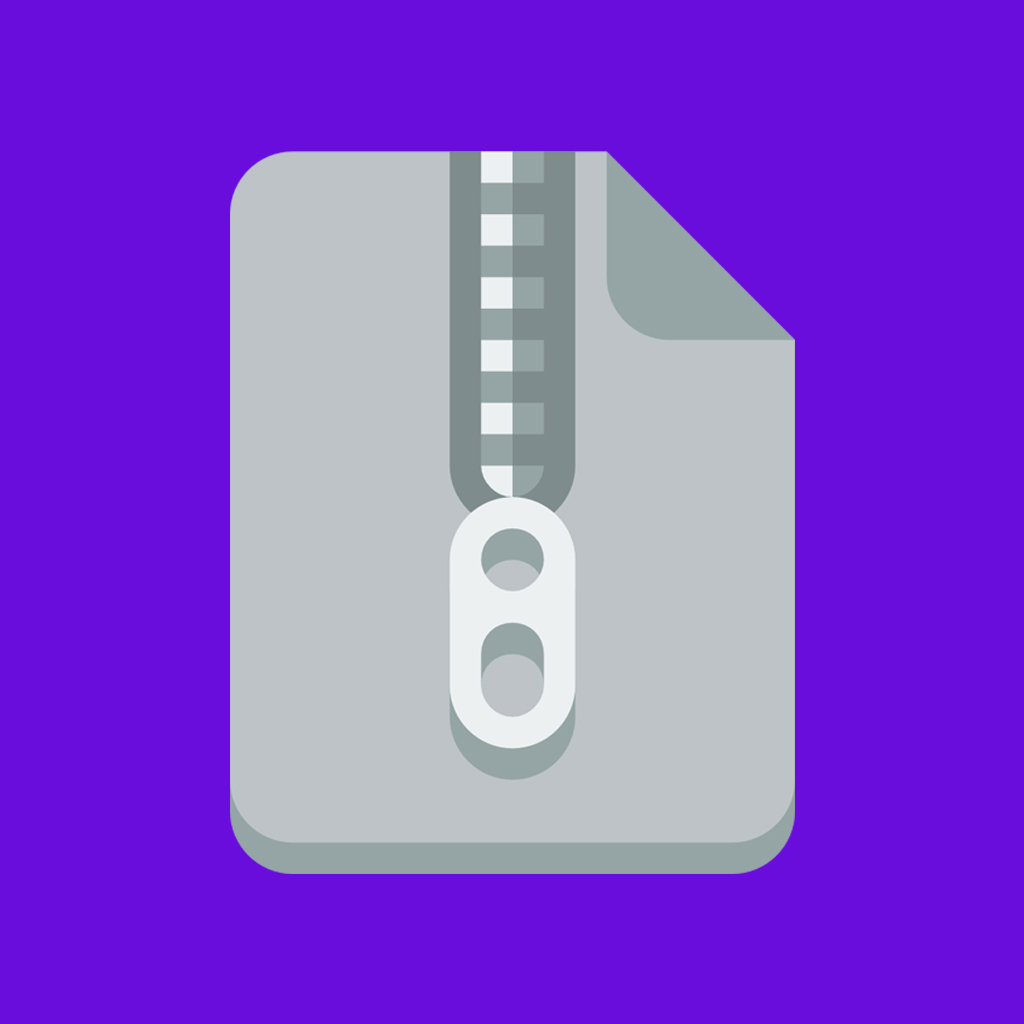
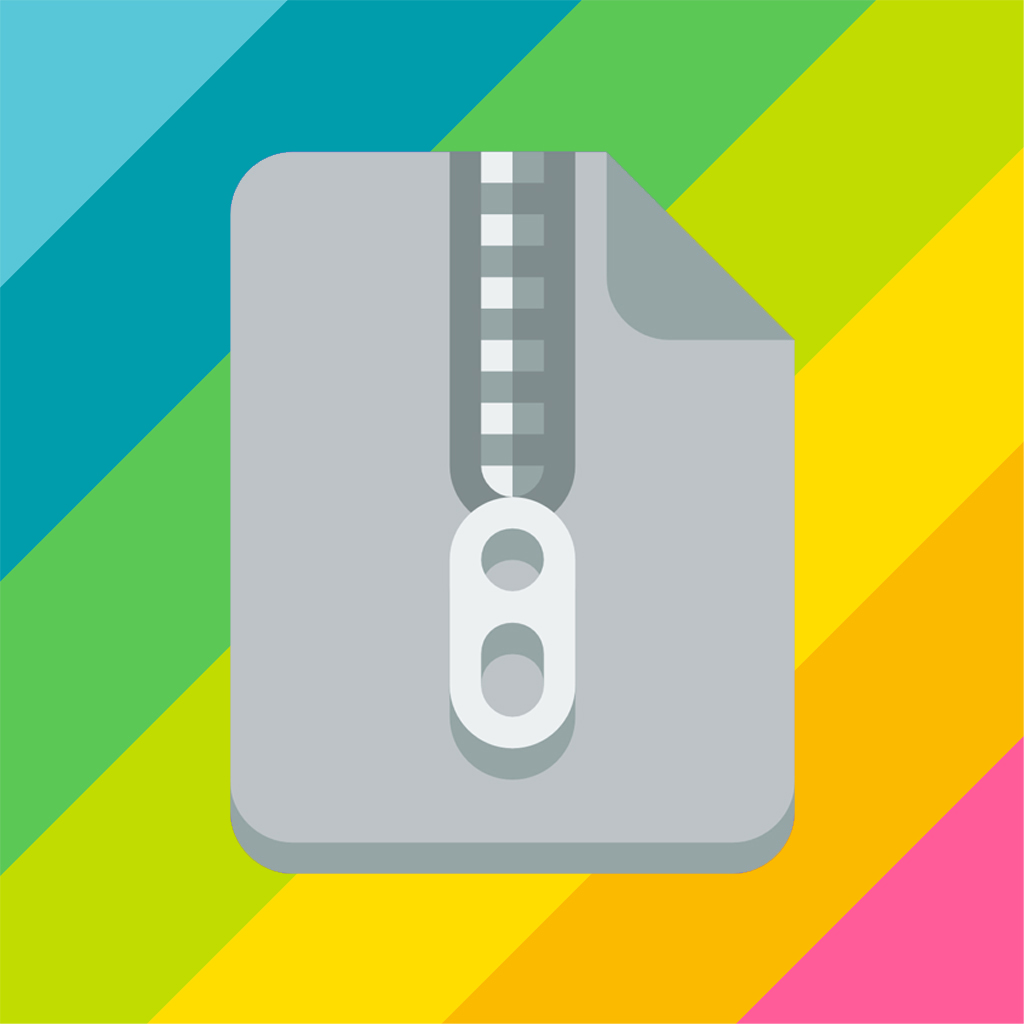
✨ partially update press section

diff --git a/src/views/press/components/press-people/press-people.vue b/src/views/press/components/press-people/press-people.vue
@@ -80,6 +80,13 @@
                         size: '~ 183 KB',
                         previewImg: martijnPreview,
                         filename: 'martijn.jpg'
+                    },
+                    {
+                        name: 'Nathalie Lokhorst, PR',
+                        url: 'https://www.dropbox.com/s/ly23ohabuqrlw54/martijn-software-engineer.jpg?dl=1',
+                        size: '~ 183 KB',
+                        previewImg: martijnPreview,
+                        filename: 'martijn.jpg'
                     }
                 ]
             }

diff --git a/src/views/press/press.vue b/src/views/press/press.vue
@@ -93,7 +93,7 @@
                     <p>
                         Home to our press releases.
                     </p>
-                    <router-link class="button is-primary" to="newsroom">
+                    <router-link class="button is-rainbow" to="newsroom">
                         Go to newsroom
                     </router-link>
                 </div>
